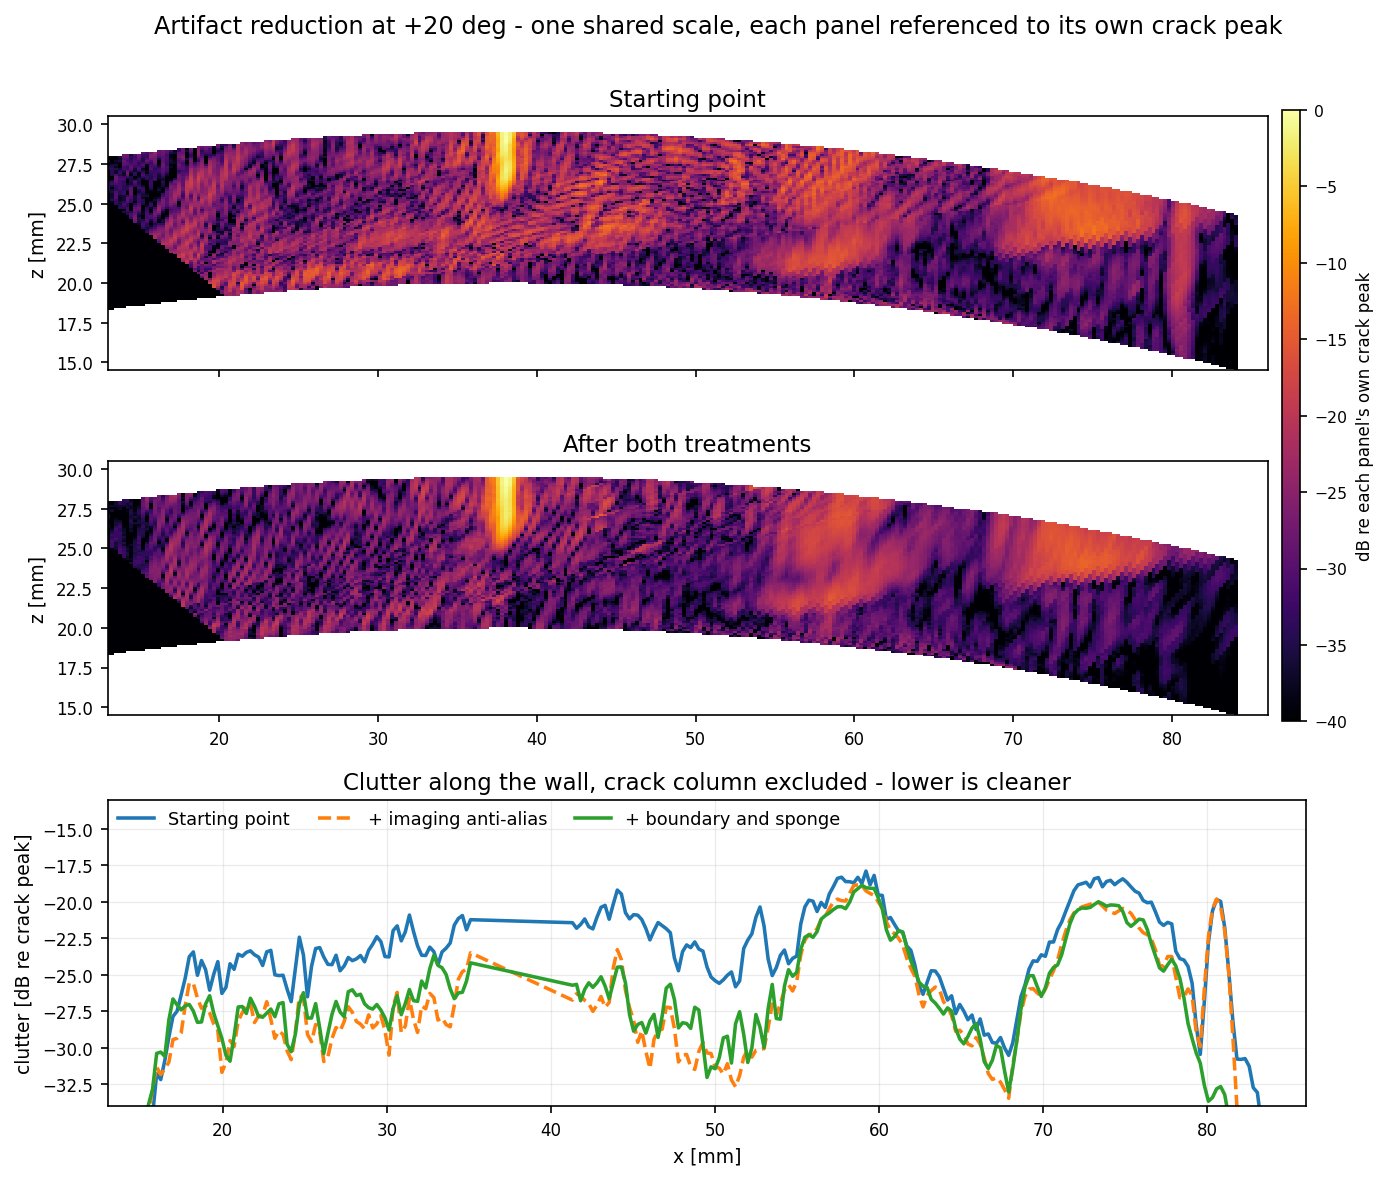
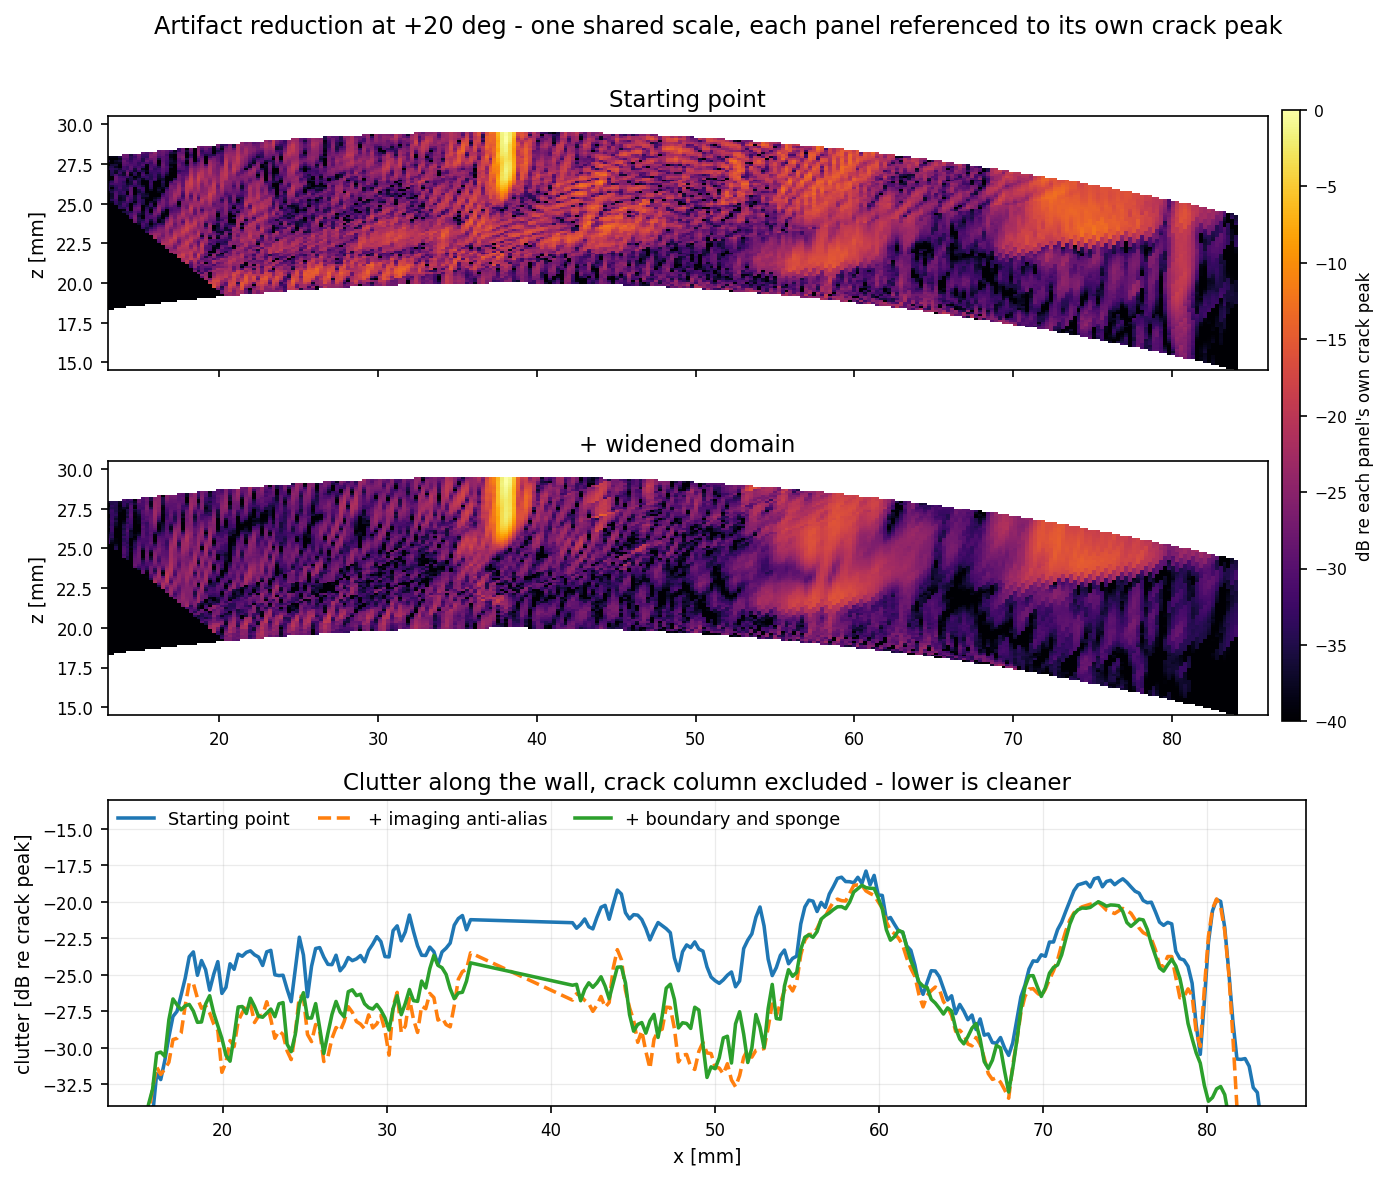
Drop every overlay from the published pages; give the brief both comparisons
NO OVERLAYS. The wall arcs and the lime true-notch marker are gone from both
pages, not demoted to a second figure. A marker tells the reader where to look,
which disqualifies any judgement of whether the defect is detectable, and it
sits on top of the feature the figure exists to show. build_artifacts.py no
longer carries a key for an annotated render; the PNGs still exist on disk for
internal position checks. Captions that referred to "the overlay" or "the figure
above" are rewritten rather than left dangling.

THE BRIEF was missing both comparisons it was asked for:
  - a comparison of the artefact-reduction TECHNIQUES, now a table of all five
    with their effect on clutter AND on crack size, which is the column that
    decides adoption. The widened domain is in it as the best measured
    configuration.
  - k-Wave against the artefact-reduced result: its own figure and its own
    table. Half the sizing error, 2.5x closer in position, +2.9 dB crack over
    clutter, +2.8 dB worst-case, 2.0 dB cleaner along the wall edge - with the
    one honest exception stated, that the bright core at the edge is a grating
    lobe of the array and we are 0.7 dB dirtier there.

viz/artifact_reduction.py gains the widened arm, so the figure now shows the
untreated wall against the best configuration: whole-wall clutter -22.80 ->
-25.41 (imaging) -> -25.86 dB (widened). A missing arm skips with a printed note
[…]

Changed region(s): [[0.0619, 0.3658, 0.8978, 0.6097]]

diff --git a/src/fenics/viz/_brief.py b/src/fenics/viz/_brief.py
@@ -6,8 +6,10 @@ but they will ask "what is it, why is it better, what does it cost".
 Scope rules for this page, deliberate:
   * ONE beam angle (+20 deg) carries the results. The second angle exists and is in the
     dossier; a brief that reports both spends its length on hedging.
-  * Every annotated comparison is followed by its UN-ANNOTATED twin, so the reader can judge
-    unaided detectability. Requested by the research team.
+  * NO ANNOTATED FIGURE APPEARS ON THIS PAGE. Every image is a `--no-overlay` render: no wall
+    arcs, no marker over the crack. A marker tells the reader where to look, which disqualifies
+    any judgement of whether the defect is detectable - and it covers the feature the figure
+    exists to show.
   * The wavefield ANIMATION is on this page, not only in the dossier. It is the most
     convincing single asset in the project.
   * Current state only. No account of superseded configurations or corrected numbers - that
@@ -156,15 +158,11 @@ and the one most likely to become decisive.</p>
 <span class="n">x = 38.25</span> mm.</p>
 </div>
 <figure>
-  <img src="{img['p20']}" alt="k-Wave and FEM images at +20 degrees, annotated">
-  <figcaption><b>Annotated.</b> k-Wave left, ours right. Grey arcs mark the true pipe walls and the
-  lime marker the true notch.</figcaption>
-</figure>
-<figure>
-  <img src="{img['p20_clean']}" alt="The same two images with no annotation overlay">
-  <figcaption><b>The same two images, unannotated.</b> No wall arcs, no notch marker &mdash; what
-  the images look like to someone judging detectability unaided, which is the fair way to look at
-  them. Identical data to the figure above.</figcaption>
+  <img src="{img['p20_clean']}" alt="k-Wave and FEM images at +20 degrees">
+  <figcaption><b>k-Wave left, ours right.</b> Nothing is drawn on either image &mdash; no wall
+  arcs, no marker on the crack. This is what an inspector judging detectability actually sees, and
+  the only fair way to look at them. The forward solver is the only difference between the two
+  panels.</figcaption>
 </figure>
 <div class="tw">
 <table>
@@ -196,41 +194,53 @@ and the one most likely to become decisive.</p>
 took one specific path, so energy arriving any other way &mdash; or invented numerically &mdash;
 lands at whatever depth its arrival time implies. The standard is unforgiving: a defect-free wall
 must image black. <b>Neither model's does.</b></p>
-<p>Two independent changes were tested against it, and both work. They act on different things, so
-their gains add.</p>
+<p>Five techniques were tried against it. <b>Two work and cost nothing</b>, one works but moves
+the measurement so it is not adopted, and two cannot work &mdash; for reasons that can be shown
+rather than argued.</p>
 </div>
 <div class="tw">
 <table>
-<caption><b>Cumulative artifact reduction</b>, ours at +20&deg;. Lower is cleaner in the right
-three columns. The two changes act in different places, which is why they add.</caption>
-<thead><tr><th>Configuration</th><th class="num">Crack vs clutter</th>
-  <th class="num">Clutter, whole wall</th><th class="num">Clutter, edge band</th>
-  <th class="num">Brightest spot</th></tr></thead>
+<caption><b>Every technique we tried, and what each was worth.</b> Ours at
+<span class="n">+20&deg;</span>. The last column is the one that decides adoption: a cleaner
+picture is worth nothing if the measured crack size moves with it.</caption>
+<thead><tr><th>Technique</th><th class="num">Crack vs clutter</th>
+  <th class="num">Clutter, whole wall</th><th class="num">Clutter, wall edge</th>
+  <th>Effect on crack size</th></tr></thead>
 <tbody>
 <tr><td class="row-label">Starting point</td>
   <td class="num">24.0 dB</td><td class="num">&minus;22.8 dB</td>
-  <td class="num">&minus;21.4 dB</td><td class="num">&minus;13.8 dB</td></tr>
-<tr><td class="row-label">+ imaging-operator anti-aliasing</td>
-  <td class="num fem">26.5 dB</td><td class="num fem">&minus;25.4 dB</td>
-  <td class="num">&minus;23.0 dB</td><td class="num">&minus;15.4 dB</td></tr>
-<tr><td class="row-label">+ shear-matched boundary and sponge</td>
+  <td class="num">&minus;21.4 dB</td><td>&mdash;</td></tr>
+<tr><td class="row-label"><b>Anti-alias the imaging operator</b></td>
+  <td class="num fem"><b>26.5 dB</b></td><td class="num fem"><b>&minus;25.4 dB</b></td>
+  <td class="num">&minus;23.0 dB</td>
+  <td><b>none</b> &mdash; adopted</td></tr>
+<tr><td class="row-label">Match the boundary to shear, add a sponge</td>
   <td class="num">26.5 dB</td><td class="num">&minus;25.4 dB</td>
-  <td class="num fem">&minus;23.9 dB</td><td class="num fem">&minus;15.5 dB</td></tr>
-<tr><td class="row-label"><b>Total change</b></td>
-  <td class="num fem"><b>+2.5 dB</b></td><td class="num fem"><b>&minus;2.6 dB</b></td>
-  <td class="num fem"><b>&minus;2.5 dB</b></td><td class="num fem"><b>&minus;1.7 dB</b></td></tr>
+  <td class="num fem">&minus;23.9 dB</td>
+  <td>shifts it 0.12 mm, and the direction flips with beam angle &mdash; not adopted</td></tr>
+<tr><td class="row-label"><b>Widen the domain 1.8&times;</b></td>
+  <td class="num fem"><b>26.9 dB</b></td><td class="num fem"><b>&minus;25.9 dB</b></td>
+  <td class="num fem"><b>&minus;24.1 dB</b></td>
+  <td><b>none</b> &mdash; best configuration measured</td></tr>
+<tr><td class="row-label">Taper the transmit aperture</td>
+  <td class="num">&mdash;</td><td class="num">&mdash;</td><td class="num">&mdash;</td>
+  <td>rejected: cannot work, the alias is in phase across the whole array</td></tr>
+<tr><td class="row-label">Narrow the source bandwidth</td>
+  <td class="num">&mdash;</td><td class="num">&mdash;</td><td class="num">&mdash;</td>
+  <td>rejected: bandwidth <em>is</em> the depth resolution</td></tr>
 </tbody>
 </table>
 </div>
 <figure>
   <img src="{img['artred']}" alt="Wall images before and after the artifact treatments, plus a clutter profile">
-  <figcaption><b>The reduction, measured and shown.</b> Left and centre: the wall before any
-  treatment and after all of them, on <em>one shared colour scale</em>, each referenced to its own
-  crack peak &mdash; the ripple across the mid-wall thins noticeably while the crack itself is
-  untouched. Right: clutter level along the wall with the crack excluded. The untreated curve sits
-  <span class="n">2&ndash;3</span> dB above the others almost everywhere. The two treated curves
-  overlap because the boundary fix acts mainly at the edges, where it takes off a further
-  <span class="n">0.8</span> dB.</figcaption>
+  <figcaption><b>The reduction, measured and shown.</b> Top and middle: the wall before any
+  treatment and in the best configuration measured, on <em>one shared colour scale</em>, each
+  referenced to its own crack peak &mdash; the ripple across the mid-wall thins noticeably while
+  the crack itself is untouched. Bottom: clutter level along the wall with the crack column
+  excluded, one curve per technique. The untreated curve sits <span class="n">2&ndash;3</span> dB
+  above every treated one almost everywhere. Whole-wall clutter falls
+  <span class="n">2.6</span> dB with the imaging fix, and a further
+  <span class="n">0.4</span> dB with the widened domain.</figcaption>
 </figure>
 <div class="col">
 <h3>What each change does</h3>
@@ -257,6 +267,43 @@ direction at both angles. At <span class="n">+20&deg;</span> that is <em>toward<
 (<span class="n">3.85</span> to <span class="n">3.73</span>). A cleaner image bought with a bias in
 the number we are selling is not a trade we will make silently, so the published results use the
 starting boundary and this sits on the table as a characterised option.</p>
+
+<h3>The cleanest result against the reference</h3>
+<p>Widening the model is the one artifact treatment that cost nothing in accuracy, so it is also
+the fairest thing to put next to the reference: same crack, same array, same beamformer, and the
+forward solver still the only difference.</p>
+</div>
+<figure>
+  <img src="{img['wide_vs_kw']}" alt="k-Wave against the widened FEM model at +20 degrees">
+  <figcaption><b>k-Wave left, our widened model right.</b> Nothing drawn on either. The crack is
+  the bright spot at the outer wall; everything else in both panels is numerical.</figcaption>
+</figure>
+<div class="tw">
+<table>
+<caption><b>k-Wave against the artifact-reduced result</b>, <span class="n">+20&deg;</span>,
+one identical beamformer.</caption>
+<thead><tr><th>Metric (true value)</th><th class="num">k-Wave</th>
+  <th class="num">Ours, widened</th><th class="num">Improvement</th></tr></thead>
+<tbody>
+<tr><td class="row-label">Crack depth (4.0 mm)</td><td class="num">3.48 mm (&minus;13%)</td>
+  <td class="num fem">3.73 mm (&minus;6.8%)</td><td class="num fem">half the error</td></tr>
+<tr><td class="row-label">Crack position error</td><td class="num">0.413 mm</td>
+  <td class="num fem">0.165 mm</td><td class="num fem">2.5&times; closer</td></tr>
+<tr><td class="row-label">Crack above clutter (RMS)</td><td class="num">24.0 dB</td>
+  <td class="num fem">26.9 dB</td><td class="num fem">+2.9 dB</td></tr>
+<tr><td class="row-label">Crack above worst-case clutter</td><td class="num">11.6 dB</td>
+  <td class="num fem">14.4 dB</td><td class="num fem">+2.8 dB</td></tr>
+<tr><td class="row-label">Clutter along the wall edge</td><td class="num">&minus;22.1 dB</td>
+  <td class="num fem">&minus;24.1 dB</td><td class="num fem">2.0 dB cleaner</td></tr>
+</tbody>
+</table>
+</div>
+<div class="col">
+<p>One honest exception. Measured as the brightest few pixels in a narrow band at the wall edge
+rather than as energy along it, we are <span class="n">0.7</span> dB <em>dirtier</em> than k-Wave
+there. That bright core is a grating lobe of the array itself &mdash; it is set by the
+<span class="n">0.30</span> mm element pitch and the steering angle, it appears in
+<em>both</em> models, and no change to either solver removes it.</p>
 
 <h3>What k-Wave does about artifacts, and what we do</h3>
 <p>The reference model surrounds its grid with a <b>perfectly matched layer</b> &mdash; a shell in

diff --git a/src/fenics/viz/_dossier.py b/src/fenics/viz/_dossier.py
@@ -8,7 +8,9 @@ SCOPE, versus the brief:
   * the brief carries +20 deg only; this page carries BOTH angles, each with its own section,
     because the second angle is what turns a result into a finding.
   * deeper on method - meshing, validation and the imaging chain get their own treatment.
-  * every annotated comparison still ships with its un-annotated twin.
+  * every figure is an un-annotated render. No wall arcs, no marker over the crack: being
+    told where to look disqualifies a judgement of detectability, and the marker hides the
+    feature. The annotated PNGs still exist on disk for internal position checks.
   * current state only. No account of superseded configurations - that history lives in git
     and in the branch README, not in a document someone reads to decide something.
 """
@@ -385,19 +387,14 @@ exception is a tie at the loosest threshold, where both models read
 <span class="n">3.85</span> mm.</p>
 </div>
 <figure>
-  <img src="{img['p20']}" alt="k-Wave, FEM, and a defect-free FEM wall at +20 degrees">
+  <img src="{img['p20_clean']}" alt="k-Wave, FEM, and a defect-free FEM wall at +20 degrees">
   <figcaption><b>+20&deg;, three panels:</b> k-Wave, ours, and ours with the crack removed
-  entirely. Each panel is scaled to its own maximum, because the two solvers drive different
-  source amplitudes &mdash; only ratios <em>within</em> an image are comparable. Both real
-  images carry wall clutter of similar character; that similarity is reassuring for validity
-  and is not a win for either side.</figcaption>
-</figure>
-<figure>
-  <img src="{img['p20_clean']}" alt="The same +20 degree images with no annotation at all">
-  <figcaption><b>The same data, nothing drawn on it.</b> No wall arcs, no true-notch marker.
-  The annotated version tells you where to look, which is exactly what you must not be told
-  when judging whether a defect is detectable unaided. Judge the crack from this one; use the
-  overlay only to check position.</figcaption>
+  entirely. <b>Nothing is drawn on any of them</b> &mdash; no wall arcs, no true-notch marker,
+  because being told where to look is exactly what disqualifies a judgement of whether a defect
+  is detectable. Each panel is scaled to its own maximum, since the two solvers drive different
+  source amplitudes and only ratios <em>within</em> an image are comparable. Both real images
+  carry wall clutter of similar character; that similarity is reassuring for validity and is not
+  a win for either side.</figcaption>
 </figure>
 
 <h2 class="col"><span class="num">08</span>Head-to-head at &minus;20 degrees, and why it matters most</h2>
@@ -453,17 +450,12 @@ substantially. The honest reading is that <strong>our sizing advantage is specif
 needed before it can be called general.</p>
 </div>
 <figure>
-  <img src="{img['m20']}" alt="k-Wave versus FEM at minus 20 degrees">
-  <figcaption><b>&minus;20&deg;, annotated.</b> Note that the clutter structure mirrors with
-  the steering direction &mdash; the bright band that sits to the right of the crack at
-  <span class="n">+20&deg;</span> appears on the left here. That mirroring is itself evidence:
-  it identifies the feature as beam-related rather than a property of the wall or the
+  <img src="{img['m20_clean']}" alt="k-Wave versus FEM at minus 20 degrees">
+  <figcaption><b>&minus;20&deg;, nothing drawn on it.</b> The clutter structure mirrors with the
+  steering direction &mdash; the bright band that sits to the right of the crack at
+  <span class="n">+20&deg;</span> appears on the left here. That mirroring is itself evidence: it
+  identifies the feature as beam-related rather than a property of the wall or the
   mesh.</figcaption>
-</figure>
-<figure>
-  <img src="{img['m20_clean']}" alt="The same minus 20 degree images with no annotation">
-  <figcaption><b>&minus;20&deg;, unannotated.</b> Same pairing as above: judge detectability
-  from this, position from the overlay.</figcaption>
 </figure>
 
 <div class="verdict col">
@@ -533,17 +525,23 @@ separately.</caption>
   before any treatment and after both, on <em>one shared colour scale</em>, each referenced to
   its own crack peak &mdash; the ripple across the mid-wall thins noticeably while the crack
   itself is untouched. Bottom: clutter level along the wall with the crack column excluded. The
-  untreated curve sits <span class="n">2&ndash;3</span> dB above the others almost everywhere.
-  The two treated curves overlap because the boundary fix acts at the edges, not across the
-  wall.</figcaption>
+  untreated curve sits <span class="n">2&ndash;3</span> dB above every treated one almost
+  everywhere. Whole-wall clutter, crack column excluded: <span class="n">&minus;22.80</span> dB
+  untreated, <span class="n">&minus;25.41</span> after the imaging fix,
+  <span class="n">&minus;25.43</span> with the boundary work on top &mdash; the two overlap because
+  the boundary acts at the edges, not across the wall &mdash; and
+  <span class="n">&minus;25.86</span> dB with the domain widened instead.</figcaption>
 </figure>
 <figure>
-  <img src="{img['artred_m20']}" alt="The same three-panel artifact figure at minus 20 degrees">
+  <img src="{img['artred_m20']}" alt="The same artifact figure at minus 20 degrees">
   <figcaption><b>&minus;20&deg;: it replicates.</b> Whole-wall clutter falls
   <span class="n">2.59</span> dB here against <span class="n">2.62</span> dB at
   <span class="n">+20&deg;</span> &mdash; agreement to <span class="n">0.03</span> dB across a
   mirrored beam. A treatment that only worked at one steering angle would be a tuning
-  coincidence; this one is a property of the method.</figcaption>
+  coincidence; this one is a property of the method. <b>Three arms rather than four:</b> the
+  widened domain has been run at <span class="n">+20&deg;</span> only, so the replication of
+  <em>that</em> arm is still outstanding &mdash; a twelve-minute run, listed as such rather than
+  assumed.</figcaption>
 </figure>
 <div class="col">
 <h3>What each change does, and why only one is in production</h3>

diff --git a/src/fenics/viz/build_artifacts.py b/src/fenics/viz/build_artifacts.py
@@ -79,12 +79,12 @@ IMG = {
     "wave": "viz/wavefield_snap_p20deg_t27p0us.png",
     "mesh": "viz/mesh_zoom.png",
     "bw": "viz/bandwidth_convergence.png",
-    "p20": "compare/compare_p20deg.png",
-    "m20": "compare/compare_m20deg.png",
-    # EVERY annotated comparison must ship with its un-annotated twin. Requested by the
-    # research team: the wall arcs and the lime true-notch marker tell the reader where to
-    # look, so nobody can judge unaided detectability with them on. Generate with
-    # `repro/compare_images.py ... --no-overlay`. Keep this pairing for any figure added later.
+    # NO ANNOTATED FIGURE IS SHOWN ON EITHER PAGE. The wall arcs and the lime true-notch
+    # marker tell a reader where to look, which is exactly what disqualifies a judgement of
+    # whether the defect is detectable - and the marker sitting on top of the crack hides the
+    # thing the figure exists to show. The annotated PNGs are still generated (they are useful
+    # internally for checking position) but they are not published. Every figure key here
+    # resolves to a `--no-overlay` render, and any figure added later must too.
     "p20_clean": "compare/compare_p20deg_nooverlay.png",
     "m20_clean": "compare/compare_m20deg_nooverlay.png",
     "base": "compare/baseline_subtract_20deg.png",
@@ -314,8 +314,8 @@ def main() -> None:
         "Should we keep going? Crack simulation decision brief",
         "Decision brief: evidence, limiting factors, cost and recommended next steps for the "
         "open-source crack-simulation benchmark.",
-        _brief.body({k: img[k] for k in ("gif", "p20", "p20_clean", "m20", "m20_clean", "base", "mesh", "bw",
-                        "artred")}, C5)))
+        _brief.body({k: img[k] for k in ("gif", "p20_clean", "m20_clean", "base", "mesh", "bw",
+                        "artred", "wide_vs_kw")}, C5)))
     if MISSING:
         print("\nPLACEHOLDERS RENDERED - these figures do not exist on disk:")
         for m in MISSING:

diff --git a/src/fenics/viz/artifact_reduction.py b/src/fenics/viz/artifact_reduction.py
@@ -44,6 +44,11 @@ ARMS = [
     ("_legacybf", "FEM_img", "Starting point"),
     ("", "FEM_img", "+ imaging anti-alias"),
     ("_boundary", "FEM shear-matched + sponge_img", "+ boundary and sponge"),
+    # The widened domain is an ALTERNATIVE to the boundary arm above, not a further step on
+    # top of it: it removes the boundary from the question instead of approximating it better.
+    # It is last because it is the best measured configuration, and the heat maps show
+    # panels[0] against panels[-1].
+    ("_widedomain", "FEM wide_img", "+ widened domain"),
 ]
 FLOOR = -40.0  # dB re crack peak, matching the project's standard display range
 
@@ -77,6 +82,12 @@ def main() -> None:
 
     panels = []
     for tag, key, label in ARMS:
+        # An arm may not exist at every angle - the widened domain has only been run at +20 so
+        # far. Skip it with a note rather than failing, so the figure at the other angle still
+        # builds and the caption cannot silently claim an arm that is not there.
+        if not (CMP / f"images_{angle}{tag}.npz").exists():
+            print(f"  arm '{label}' skipped: no images_{angle}{tag}.npz at this angle")
+            continue
         img, x, z = load(tag, key, angle)
         in_wall, crack, t_x = wall_masks(x, z)
         pk = img[crack].max()
@@ -99,8 +110,7 @@ def main() -> None:
         shown = np.where(p["in_wall"], p["db"], np.nan)
         im = ax.pcolormesh(p["x"], p["z"], shown.T, cmap="inferno",
                            vmin=FLOOR, vmax=0.0, shading="auto", rasterized=True)
-        ax.set_title(p["label"] if i == 0 else "After both treatments",
-                     fontsize=11, pad=5)
+        ax.set_title(p["label"], fontsize=11, pad=5)
         ax.set_ylabel("z [mm]", fontsize=9)
         ax.set_xlim(X0, X1)
         ax.set_ylim(Z0, Z1)
